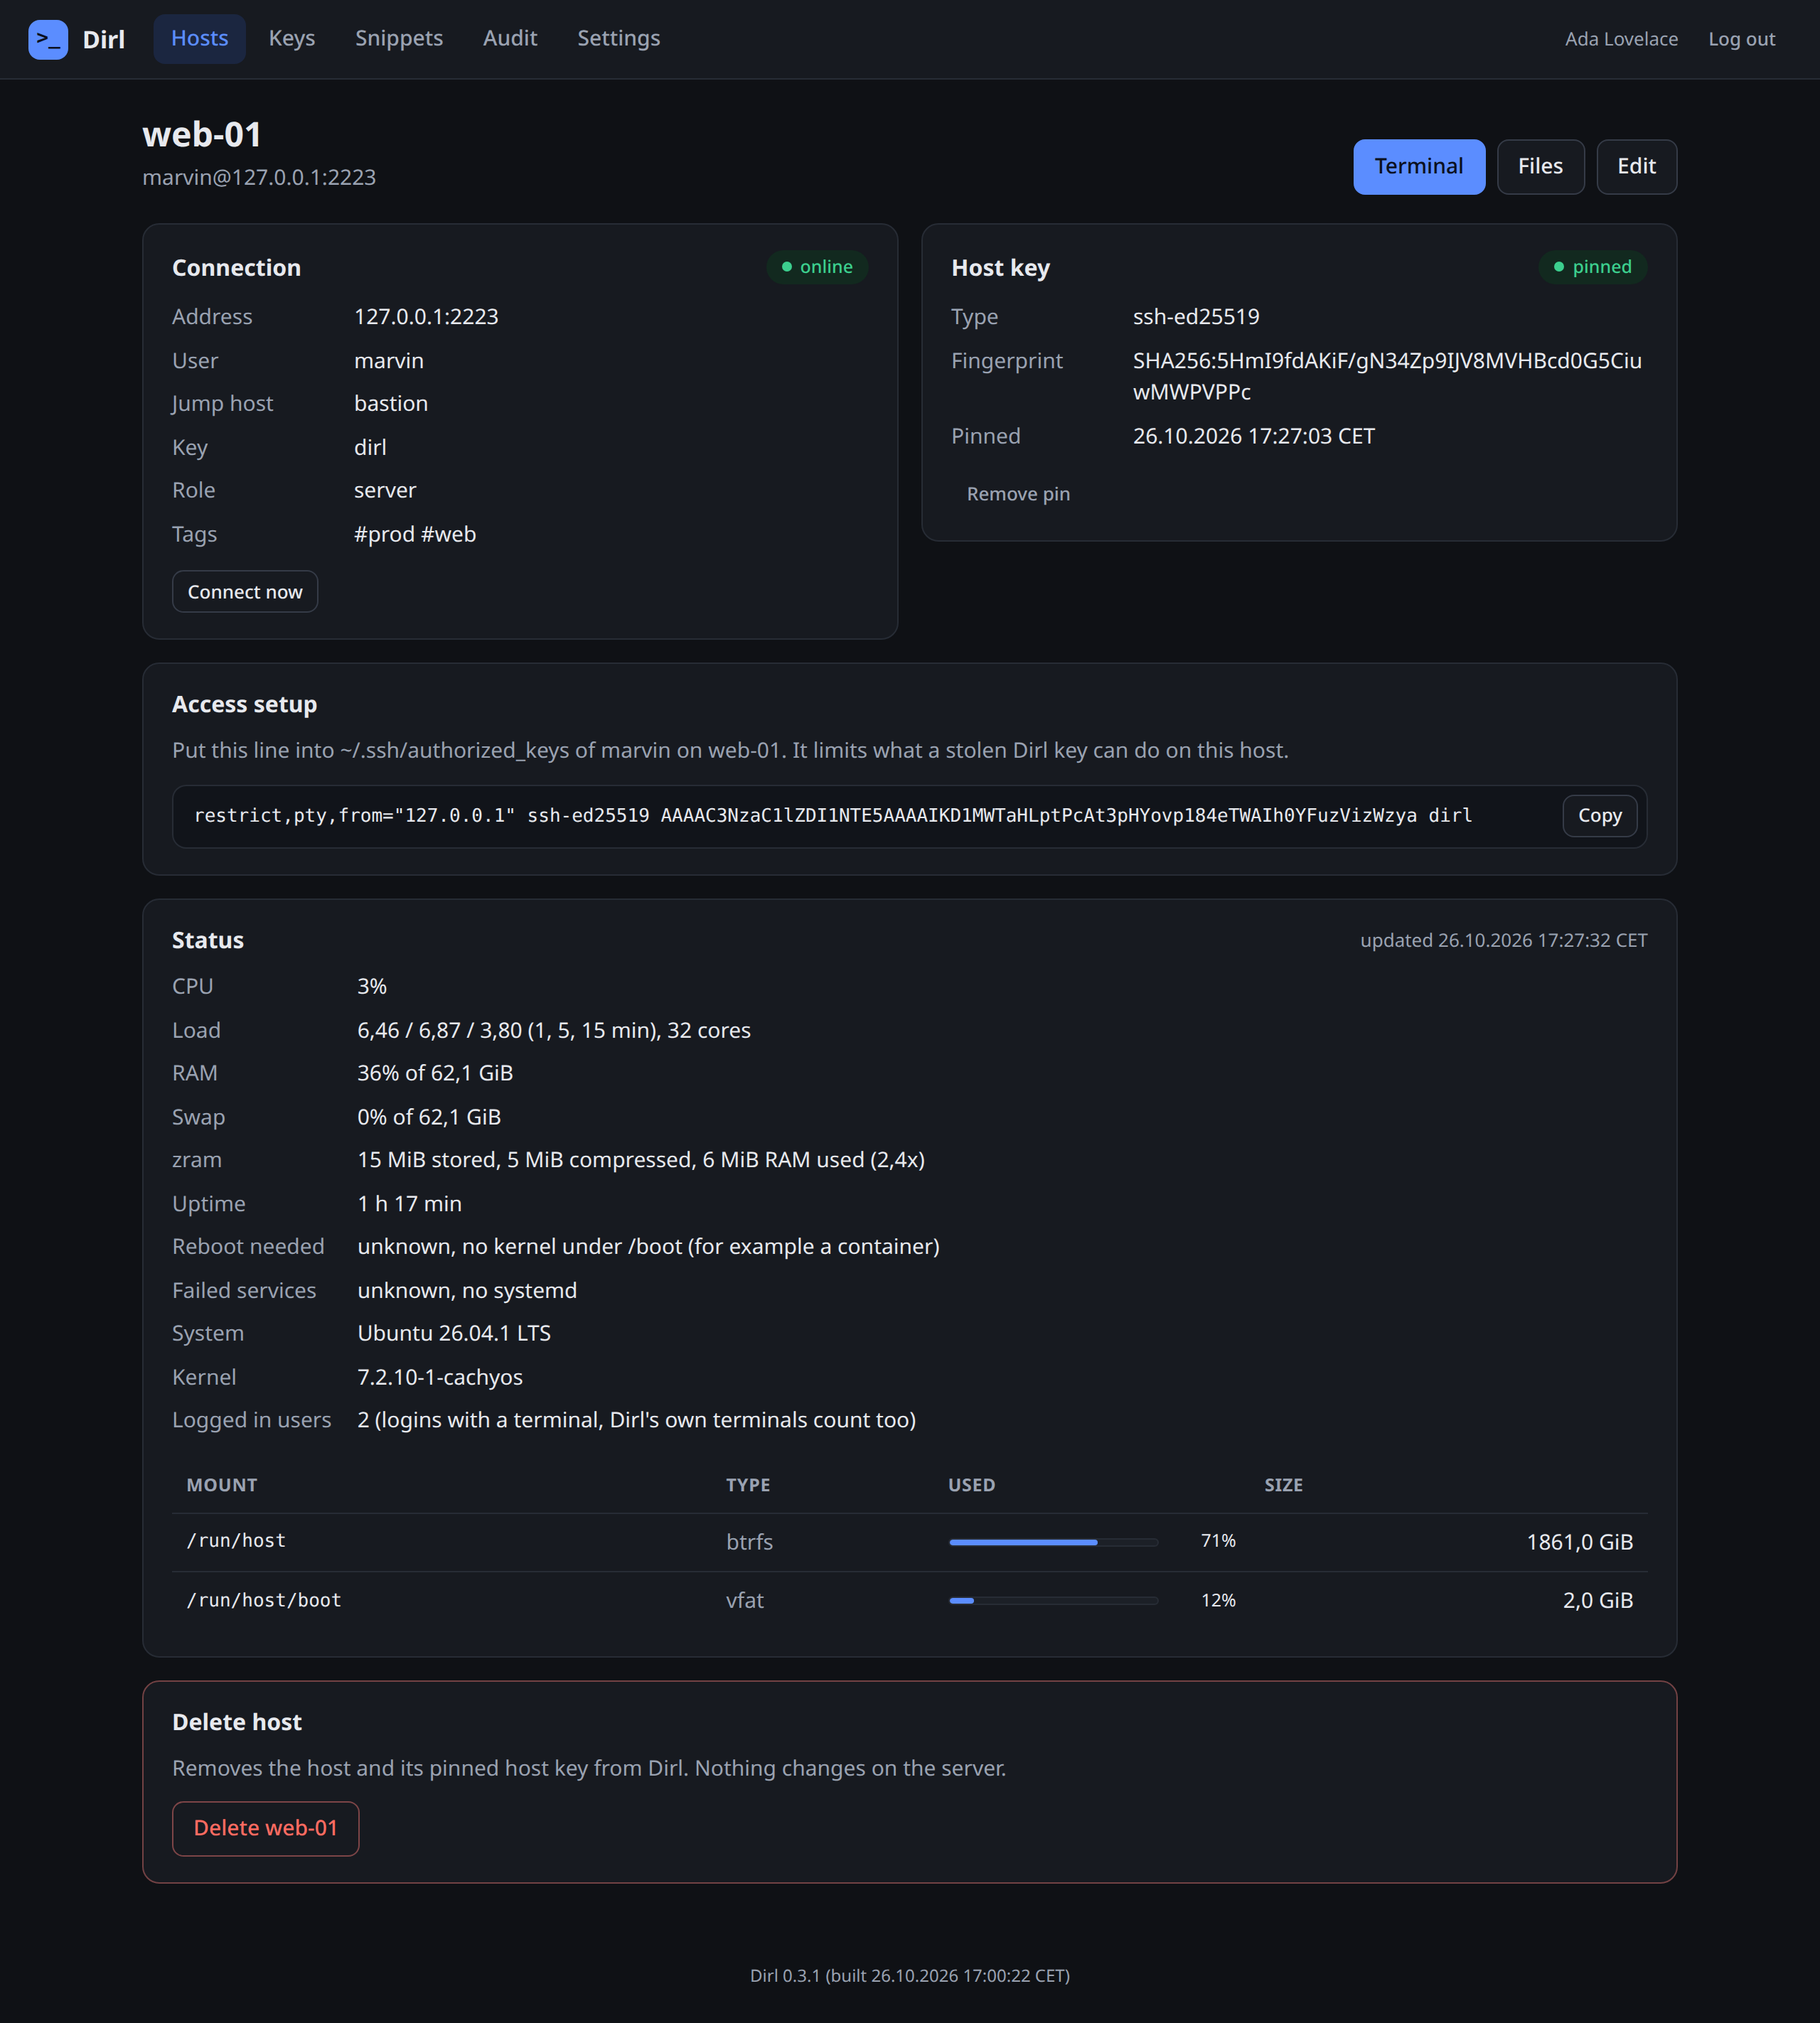
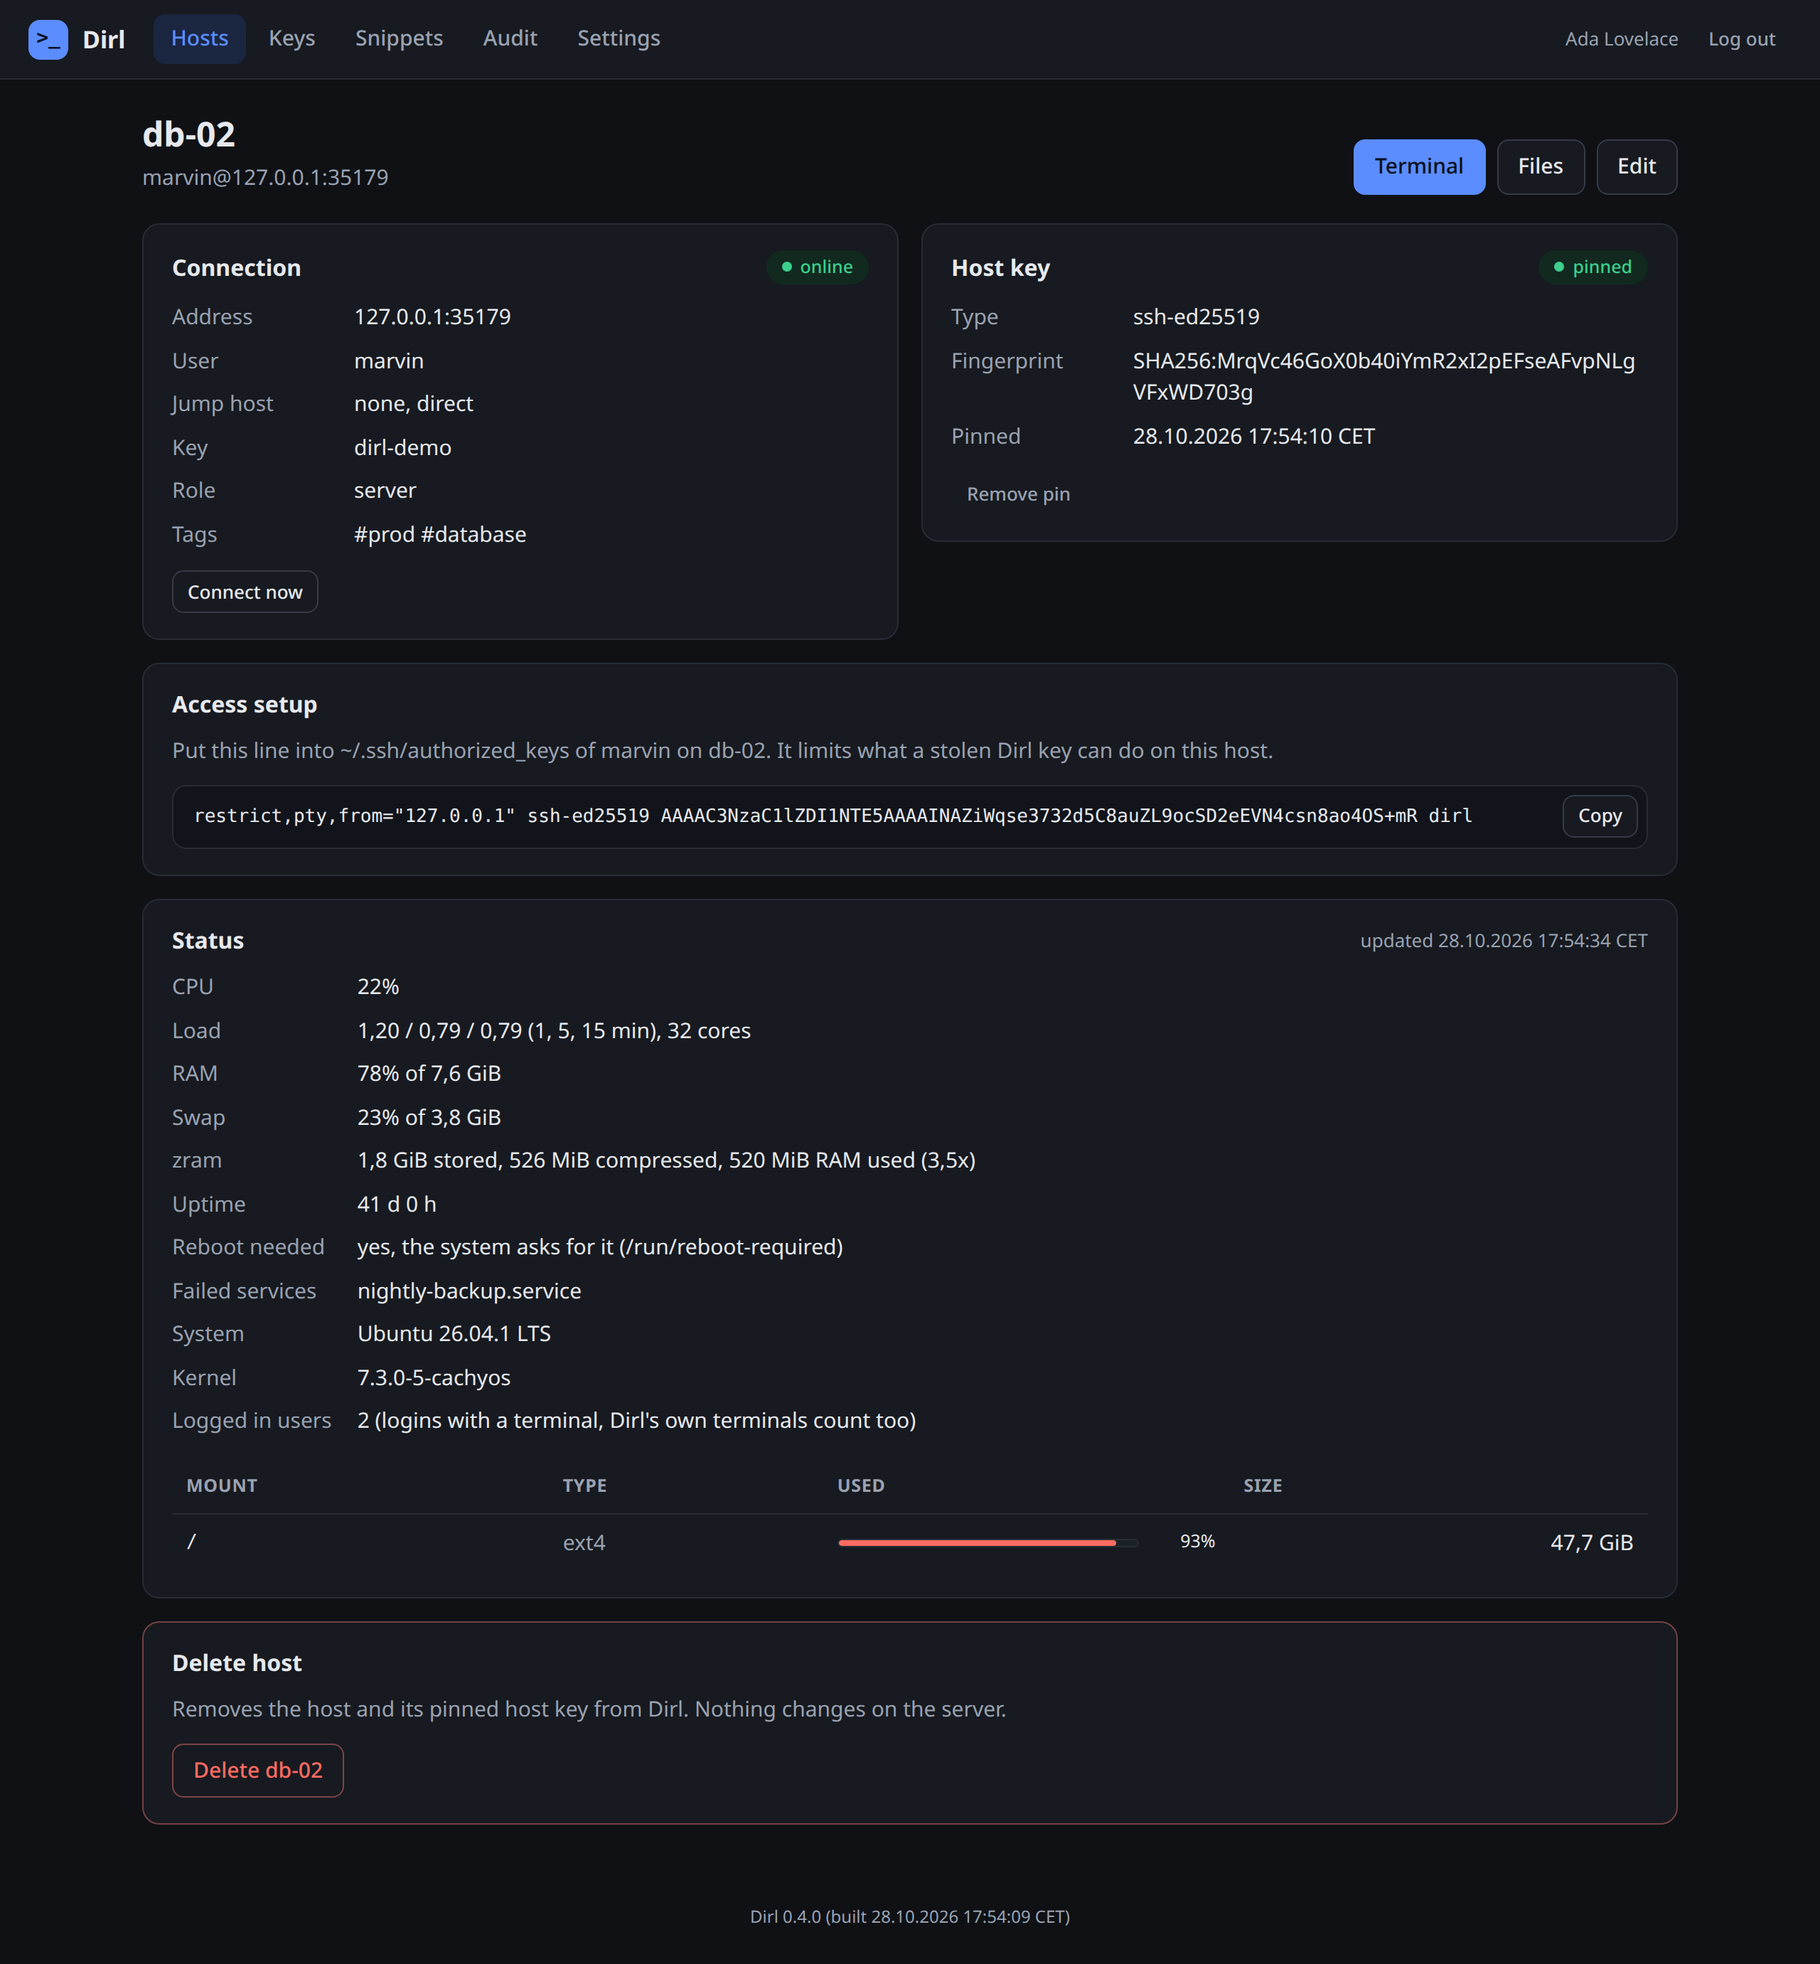
Update the screenshots for the host rows
Taken from the demo instance at 1280x800, scale 2, dark: the overview
with pinned hosts, warnings, the round trip and an offline host, the
host page of db-02 and a terminal with an open snippet folder. The demo
terminals are a plain bash with the host name in the prompt, so the
pictures show nothing of the machine's own shell setup.

diff --git a/src/test/kotlin/bayern/kickner/dirl/dev/DemoServer.kt b/src/test/kotlin/bayern/kickner/dirl/dev/DemoServer.kt
@@ -93,12 +93,14 @@ fun main() {
         Host("backup", "backup", "127.0.0.1", offlinePort, user, key.id, tags = listOf("home")),
         Host("fresh", "new-box", "127.0.0.1", fresh.port, user, key.id, tags = listOf("home")),
     )
+    // Every host but the jump host gets the demo shell, so its terminal shows its own name in a plain bash.
     fun line(host: Host, profile: String? = null): String {
         val base = authorizedKeysLine(host, key, hosts, "127.0.0.1")
-        return if (profile == null) base else "command=\"${shell.absolutePath} ${File(dir, profile).absolutePath}\"," + base
+        val profilePath = profile?.let { File(dir, it).absolutePath } ?: "-"
+        return "command=\"${shell.absolutePath} $profilePath ${host.name}\"," + base
     }
     web.authorize(line(hosts[0]))
-    bastion.authorize(line(hosts[1]))
+    bastion.authorize(authorizedKeysLine(hosts[1], key, hosts, "127.0.0.1"))
     app.authorize(line(hosts[2]))
     db.authorize(line(hosts[3], "db.profile"))
     staging.authorize(line(hosts[4], "staging.profile"))
@@ -138,9 +140,9 @@ fun main() {
 }
 
 /**
- * The forced command of the demo hosts with a profile: the metrics command gets some of its parts replaced by the
- * profile, a terminal gets a normal login shell, SFTP the real `sftp-server`. A profile is a file of `@@name` blocks
- * like the metrics output itself.
+ * The forced command of the demo hosts, called with a profile (or `-`) and the host name: the metrics command gets
+ * some of its parts replaced by the profile, a terminal gets a plain bash with the host name in its prompt and no
+ * history file, SFTP the real `sftp-server`. A profile is a file of `@@name` blocks like the metrics output itself.
  */
 private fun demoShell(dir: File, root: File): File {
     val sftp = listOf("usr/lib/openssh/sftp-server", "usr/libexec/openssh/sftp-server", "usr/libexec/sftp-server")
@@ -150,13 +152,15 @@ private fun demoShell(dir: File, root: File): File {
         """
         #!/bin/sh
         profile="${'$'}1"
+        name="${'$'}2"
         case "${'$'}SSH_ORIGINAL_COMMAND" in
-          *@@uptime*) sh -c "${'$'}SSH_ORIGINAL_COMMAND" | awk -v profile="${'$'}profile" '
+          *@@uptime*) if [ "${'$'}profile" = "-" ]; then exec sh -c "${'$'}SSH_ORIGINAL_COMMAND"; fi
+            sh -c "${'$'}SSH_ORIGINAL_COMMAND" | awk -v profile="${'$'}profile" '
               BEGIN { while ((getline line < profile) > 0) { if (line ~ /^@@/) { name = line; seen[name] = 1 } else over[name] = over[name] line "\n" } }
               /^@@/ { skip = ($0 in seen); printf "%s\n", $0; if (skip) printf "%s", over[$0]; next }
               !skip { print }' ;;
           sftp|internal-sftp|*sftp-server*) exec $sftp ;;
-          "") exec bash -l ;;
+          "") cd "${'$'}HOME"; exec env HISTFILE= PS1="\\u@${'$'}name:\\w\\$ " bash --norc --noprofile -i ;;
           *) exec sh -c "${'$'}SSH_ORIGINAL_COMMAND" ;;
         esac
         """.trimIndent() + "\n"

diff --git a/CLAUDE.md b/CLAUDE.md
@@ -92,4 +92,5 @@ Deliberate deviations from DemoAiProject, decided in the concept: Shadow instead
 fat JAR, Klogger's SLF4J provider instead of `slf4j-simple`, server-rendered kotlinx.html instead of Compose.
 
 Keep the README short: no implementation details there, they belong into docs/. Update docs/ and KDoc in the same
-change as the code. Screenshots in docs/images come from the dev instance (`./gradlew devRun`) at 1280x800, scale 2.
+change as the code. Screenshots in docs/images come from the demo instance (`./gradlew demoRun`) at 1280x800, scale 2,
+dark.
